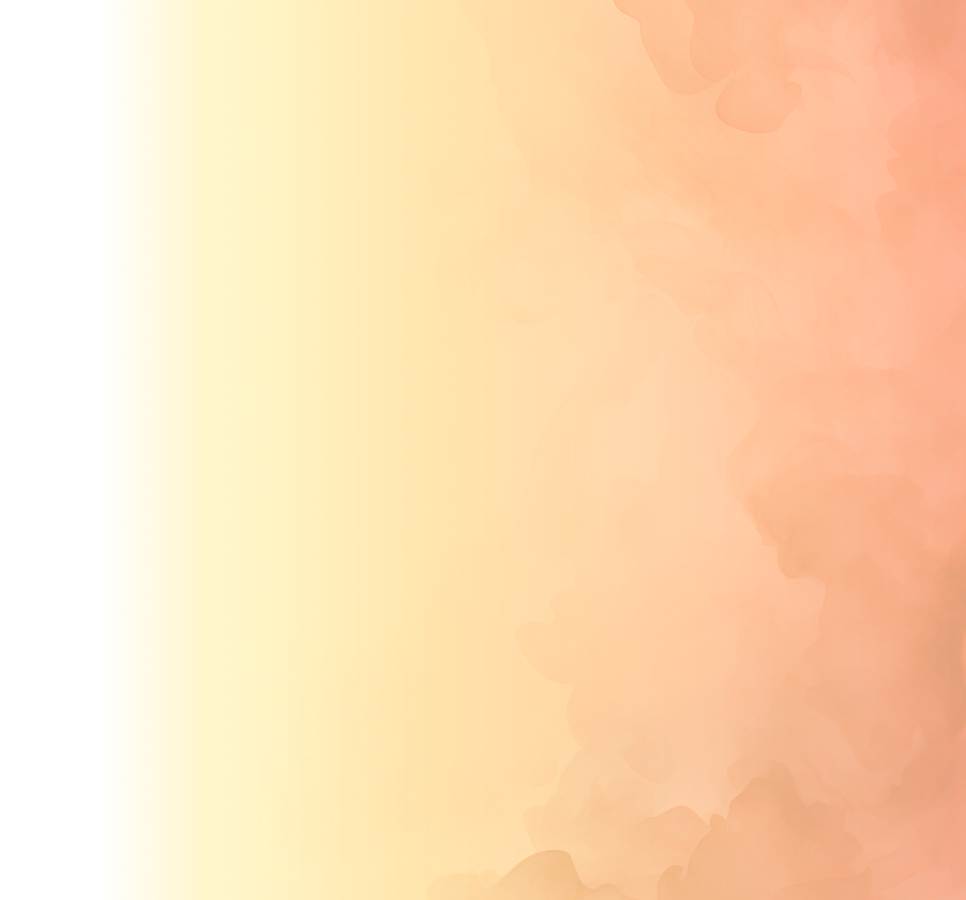
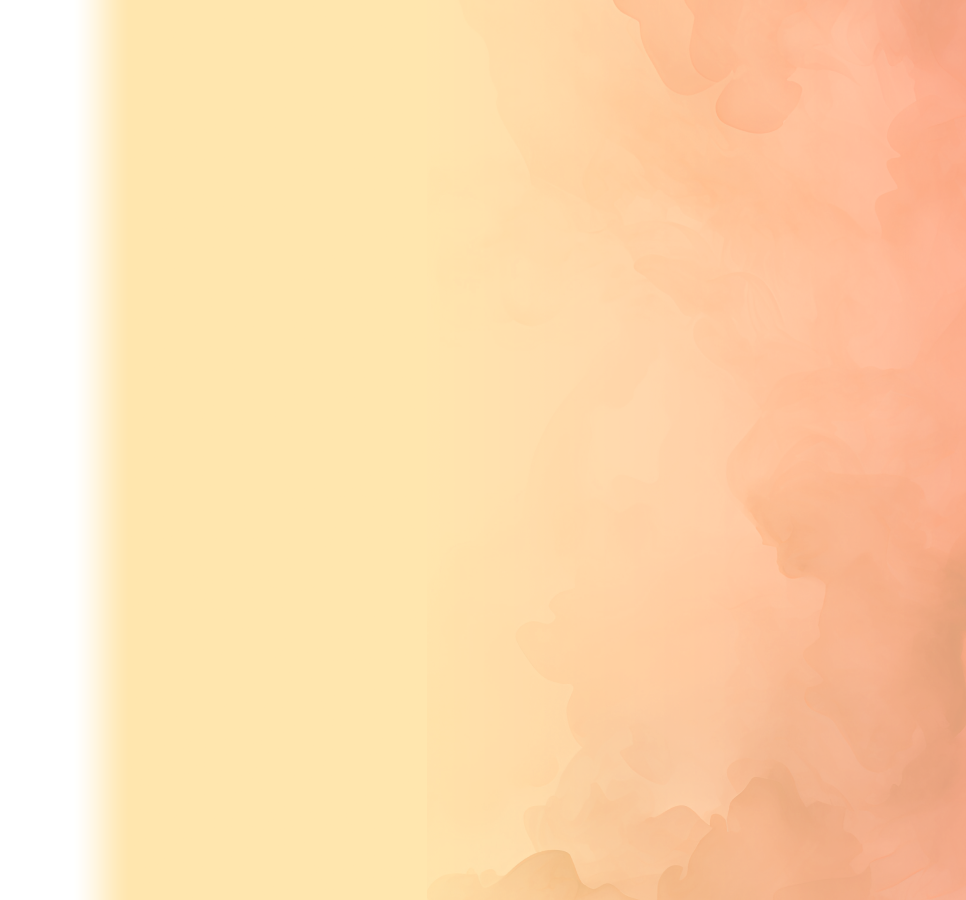
background fixed

Changed region(s): [[0.0932, 0.0, 0.2795, 1.0]]

diff --git a/main.html b/main.html
@@ -1237,11 +1237,11 @@
       <section class="nurturing-start-section">
         <div class="container-fluid ">
 
-          <div class="row full"
+          <div class="row "
             style="background: url(assets/images/block-img.jpg) no-repeat center;background-size: cover;">
 
 
-            <div class="col-lg-8 offset-lg-4 px-0">
+            <div class="col-lg-8 offset-lg-4 px-0" style="background: linear-gradient(to right,  rgba(255,241,176,0) 6%,rgba(255,241,176,1) 27%)">
               <!-- Text Content -->
 
               <div class="nurturing-start-content">

diff --git a/src/styles/style.css b/src/styles/style.css
@@ -3626,8 +3626,7 @@ h1 .hero__title-script {
   gap: 34px;
   padding: 6rem 0;
   z-index: 5;
-  background: url(../../assets/images/bg-right.png) right center no-repeat;
-  background-size: cover;
+  background: url(../../assets/images/back-img.png) right center no-repeat;
   min-height: 100vh;
 }
 .nurturing-start-content .content-box {

diff --git a/src/styles/_nurturing-start-section.less b/src/styles/_nurturing-start-section.less
@@ -175,8 +175,8 @@
   gap: 34px;
   padding: 6rem 0;
   z-index: 5;
-  background: url(../../assets/images/bg-right.png) right center no-repeat;
-  background-size: cover;
+  background: url(../../assets/images/back-img.png) right center no-repeat;
+
   min-height: 100vh;
 
   .content-box {
